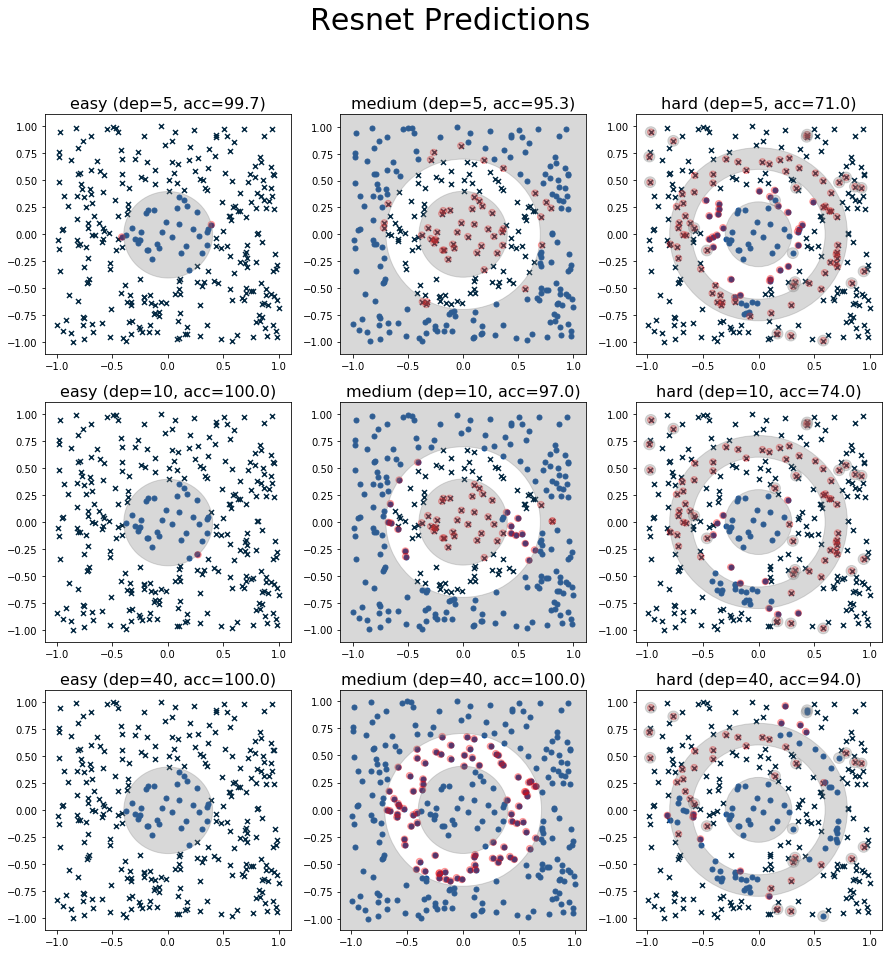
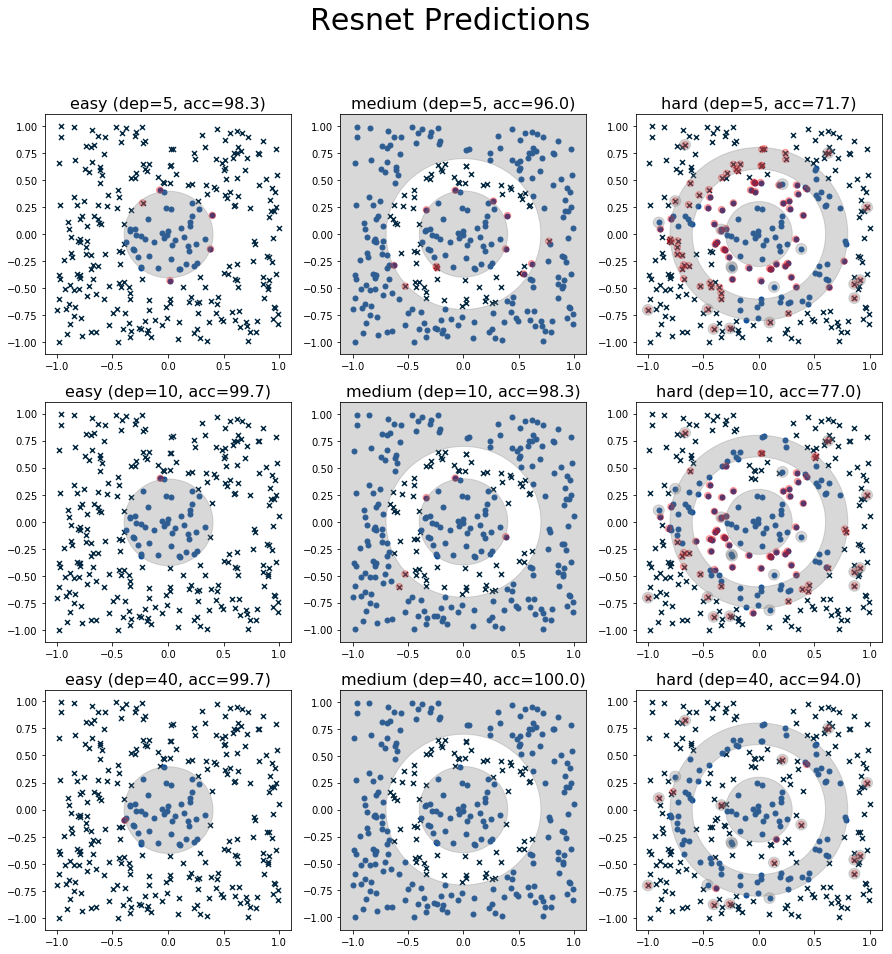
spell check, update images.

diff --git a/source/posts/universal-resnet-the-one-neuron-approximator.rst b/source/posts/universal-resnet-the-one-neuron-approximator.rst
@@ -44,13 +44,15 @@
 
 *"In theory, theory and practice are the same. In practice, they are not."*
 
-This post is going to talk about a paper I read recently called *ResNet with
-one-neuron hidden layers is a Universal Approximator* by Lin and Jegelka [1].
-It talks about a simplified Residual Network as a universal approximator,
+I read a very interesting paper titled *ResNet with one-neuron hidden layers is
+a Universal Approximator* by Lin and Jegelka [1].
+The paper describes a simplified Residual Network as a universal approximator,
 giving some theoretical backing to the wildly successful ResNet architecture.
-Of course, I'm not going to go through the any of the theoretical stuff,
-instead I'm going to introduce the theorems and play around to see if we can
-get close to these theoretical limits.
+In this post, I'm going to talk about this paper and a few of the related
+universal approximation theorems for neural networks. 
+Instead of going through all the theoretical stuff, I'm simply going introduce
+some theorems and play around with some toy datasets to see if we can get close
+to the theoretical limits.
 
 (You might also want to checkout my previous post where I played around with
 ResNets: `Residual Networks <link://slug/residual-networks>`__)
@@ -62,30 +64,31 @@ ResNets: `Residual Networks <link://slug/residual-networks>`__)
 |H3| The OG Universal Approximation Theorem |H3e|
 
 The `Universal Approximation Theorem
-<https://en.wikipedia.org/wiki/Universal_approximation_theorem>`__ is one of
+<https://en.wikipedia.org/wiki/Universal_approximation_theorem>`__ (1989) is one of
 the most well known (and often incorrectly used) theorems when it comes to
 neural networks.  It's probably because neural networks don't have as much
-theoretical depth as other techniques.  I'll paraphrase the theorem here
-(if you're really interested in the math click on the Wikipedia link):
+theoretical depth as other techniques so people feel like they have to give
+some weight to its spectacular empirical results.  I'll paraphrase the theorem
+here (if you're really interested in the math click on the Wikipedia link):
 
     The **universal approximation theorem** states that a feed-forward
     networks with a single hidden layer containing a finite number of neurons
     can approximate functions on compact sets on :math:`\mathbb{R}^n`, under
-    mild assumptions of the activation function (nonconstant,
+    mild assumptions of the activation function (non-constant,
     monotonically-increasing, continuous).
 
-The implications is *theoretically*, we can fit any function just by increasing
-the width of a single hidden layer arbitrarily large. 
+The implications is *theoretically* we can approximate any function just by
+arbitrarily increasing the width of a single hidden layer.
 
 For me, this theorem doesn't strike me as all that insightful (or useful).
 First, in practice we never arbitrarily make the width of a neural network
 really wide, never mind having a single hidden layer.  Second, it seems
 intuitive that this might be the case doesn't it?  If we think about approximating
-a function with an arbitrary number of `piecewise linear functions <https://en.wikipedia.org/wiki/Piecewise_linear_function>`__, then we should be able to approximate
-*most* well-behaved functions (that's basically how derivation works).
+a function with an arbitrary number of `piece-wise linear functions <https://en.wikipedia.org/wiki/Piecewise_linear_function>`__, then we should be able to approximate
+*most* well-behaved functions (that's basically how integration works).
 Similarly, if we have a neuron for each "piece" of the function, we should
 intuitively be able to approximate it to any degree (although I'm sure the
-actual proof is more complicated and elegant).
+actual proof is much more complicated and elegant).
 
 .. figure:: /images/piecewise_linear_approximation.png
   :height: 300px
@@ -93,7 +96,7 @@ actual proof is more complicated and elegant).
   :align: center
 
   Figure 1: If we can approximate functions with an arbitrary number of
-  piecewise lienar functions, why can't we do it with an arbitrary number of
+  piece-wise linear functions, why can't we do it with an arbitrary number of
   hidden units? (source: Wikipedia)
 
 So practically, there isn't much that's interesting about this (basic) version
@@ -109,7 +112,7 @@ theorem for width-bounded neural networks published recently (2017) from [2]:
     ReLU networks can approximate any Lebesgue integrable function on
     n-dimensional space with respect to L1 distance.
 
-    Additionally, except for a negligible set, most functions cannot
+    Additionally, except for a negligible set, most functions *cannot*
     be approximated by a ReLU network of width at most :math:`n`.
 
 So basically if you have just 4 extra neurons in each layer and arbitrary
@@ -128,10 +131,11 @@ proven.  See the references from [1] and [2] if you're interested.
 ResNet is a neural network architecture that contains a "residual connection".
 Basically, it provides a shortcut from layer :math:`i` merging it with addition
 to layer :math:`i+k` for some constant :math:`k`.  In between, you can do all
-kinds of interesting things such as have multiple layers but the important
-thing is that the input width of layer :math:`i` is the same as the output
-width of layer :math:`i+k`.  Figure 2 shows a simplified ResNet architecture
-where the "in between" transformation is a single neuron.
+kinds of interesting things such as have multiple layers, increase or
+bottleneck the width, but the important thing is that the input width of layer
+:math:`i` is the same as the output width of layer :math:`i+k`.  Figure 2 shows
+a simplified ResNet architecture where the "in between" transformation is a
+single neuron.
 
 .. figure:: /images/basic_resnet.png
   :height: 200px
@@ -154,8 +158,8 @@ function, we have our ResNet block :math:`\mathcal{R}_i(x)` and our final networ
     Y(x) &= \mathcal{R}_n({\bf x}) \circ \ldots \circ \mathcal{R}_1({\bf x})
     \tag{1}
 
-where :math:`U` is :math:`d x 1`, :math:`V` is :math:`1xd` matrix, and
-:math:`b` is a constant.
+where :math:`\bf U` is :math:`d \text{x} 1` weight matrix, :math:`\bf V` is
+:math:`1\text{x}d` weight matrix, and :math:`b` is a learnable constant.
 
 Given the above ResNet architecture, the universal approximation theorem from
 [1] states:
@@ -171,104 +175,117 @@ neuron it is powerful enough to represent any function.
 
 |H2| Experiments |H2e|
 
-In this section I played around with a bunch of different network architectures
-to see how they would perform.  You can see my work in this notebook (TODO TODO).
+In this section I play around with a few different network architectures
+relating to the theorems above to see how they would perform.  You can see my
+work in this notebook on
+`GitHub <https://github.com/bjlkeng/sandbox/blob/master/notebooks/universal_resnet/Universal%20Resnet.ipynb>`__.
 
 I generated three toy datasets labelled "easy", "medium", "hard" with two input
 variables :math:`x_1, x_2`, and a single binary label.  Each dataset used the
-same 300 :math:`(x_1, x_2)` input points but had a different predicate of
+same 300 :math:`(x_1, x_2)` input points but had different predicates of
 increasing complexity.  Figure 3 shows the three datasets.
 
 .. figure:: /images/universal_resnet_expr1.png
   :height: 200px
-  :alt: "easy", "medium" and "hard" Datasets
+  :alt: "easy", "medium" and "hard" datasets
   :align: center
 
-  Figure 3: Plot of "easy", "medium" and "hard" Datasets.  The shaded region
-  indicates where the genrating function should be a "1".  The "x"s represent
-  "0"s and the dots represent "1"s.
+  Figure 3: Plot of "easy", "medium" and "hard" datasets.  The shaded region
+  indicates where the generating function should be a "1".  The "x"s represent
+  "0"s and the dots represent "1"s.  Notice the "hard" dataset has a bunch of
+  spurious "1"s that are randomly placed on the grid.
   
 First, let's take a look at the different architectures that I ran.  All the
 experiments use a softmax output layer with a binary crossentropy loss.
 
-    * **Resnet**: Stacking the above ResNet block (figure 2) with a width of 2
-      (same as the input).
-    * **Dense (W=2, W=6)**: Fully connected dense layers with a
-      width of either 2 (size of inputs) or 6 (size of inputs + 4 from the
-      universal theorem above).
-    * **Single Dense with Variable Width**: A single hidden layer but changing
-      the width (OG universal theorem).
+* **Resnet**: Stacking the above ResNet block (figure 2) with a width of 2
+  (same as the input).
+* **Dense (W=2, W=6)**: Fully connected dense layers with a
+  width of either 2 (size of inputs) or 6 (size of inputs + 4 from the
+  universal theorem above) with ReLU activations.
+* **Single Dense with Variable Width**: A single hidden layer but changing
+  the width (OG universal theorem) with ReLU activations.
 
 I varied depths of the first two architectures varied from 5, 10, and 40.  The
 width of the last architecture varies from 5, 10, 40, 100, and 300.
 For each combination, I ran 5 experiments and report the mean and standard
 deviation of accuracy on the training data (no testing set here since we're trying
 to see if it can approximate samples from the underlying function).  Bolded
-results show the best run for each dataset.  The results shown in Table 1 and
-Table 2, while Appendix A shows figures plotting the best run of each
-configuration.
+results show the best run for each dataset.  The overall results are shown in
+Table 1 and Table 2, while Appendix A shows figures plotting the best run of
+each configuration.
 
 *Table 1: ResNet vs. Dense (W=2, 6) with varying depths on Easy, Medium and Hard datasets.*
 
 +-------------+-------------------------------+--------------------------------+--------------------------------+
-|             |              Easy             |             Medium             |              Hard              |
+|             |              Easy             |             Medium             |          Hard                  |
 +-------------+-------------------------------+--------------------------------+--------------------------------+
-|             | D=5    | D=10        | D=40   | D=5    | D=10    | D=40        | D=5        | D=10    | D=40    |
-+-------------+--------+-------------+--------+--------+---------+-------------+------------+---------+---------+
-|    ResNet   | 99 ± 1 | **100 ± 0** | 99 ± 1 | 89 ± 7 | 91 ± 6  | **93 ± 12** | 68 ± 2     | 71 ± 2  | 75 ± 23 |
-+-------------+--------+-------------+--------+--------+---------+-------------+------------+---------+---------+
-| Dense (W=2) | 89 ± 0 | 89 ± 0      | 89 ± 0 | 73 ± 0 | 73 ± 0  | 73 ± 0      | 64 ± 0     | 64 ± 0  | 64 ± 0  |
-+-------------+--------+-------------+--------+--------+---------+-------------+------------+---------+---------+
-| Dense (W=6) | 97 ± 5 | 97 ± 5      | 89 ± 0 | 92 ± 9 | 90 ± 11 | 75 ± 6      | **85 ± 9** | 72 ± 13 | 65 ± 1  |
+|             | D=5    | D=10        | D=40   | D=5        | D=10    | D=40    | D=5    | D=10    | D=40        |
++-------------+--------+-------------+--------+------------+---------+---------+--------+---------+-------------+
+|    ResNet   | 98 ± 1 | **99 ± 0**  | 98 ± 2 | 85 ± 8     | 95 ± 3  | 98 ± 2  | 67 ± 3 | 73 ± 3  | **88 ± 4**  |
++-------------+--------+-------------+--------+------------+---------+---------+--------+---------+-------------+
+| Dense (W=2) | 86 ± 0 | 86 ± 0      | 86 ± 0 | 77 ± 0     | 77 ± 0  | 77 ± 0  | 62 ± 2 | 62 ± 0  | 62 ± 0      |
++-------------+--------+-------------+--------+------------+---------+---------+--------+---------+-------------+
+| Dense (W=6) | 99 ± 0 | 99 ± 1      | 88 ± 6 | **99 ± 1** | 97 ± 6  | 77 ± 0  | 85 ± 5 | 75 ± 8  | 62 ± 0      |
 +-------------+--------+-------------+--------+--------+---------+-------------+------------+---------+---------+
 
 We can see in Table 1 that ResNet has pretty consistent performance.  As we
 increase the depth, it's able to successfully translate the increased capacity
-into accuracy gains.  Notice though at depth 40, the standard deviation is
-huge.  This is probably from the difficulty of fitting a networks so deep.
-Although the fact that we were able to train a network so deep shows the
-uncanny ability of ResNet architectures to train deep networks (as compared to
-the dense ones below).  So the ResNet universal approximation theorem for
-ResNet seems to be holding up somewhat.
+into accuracy gains.  Not only that, it shows the best best performance in the
+easy and hard datasets, while being pretty close on the medium one.
+The fact that we are able to train a network so deep shows the uncanny ability
+of ResNet architectures to train deep networks (as compared to the dense ones
+below).  So the ResNet universal approximation theorem for ResNet seems to be
+holding up somewhat.
 
-A dense network with width=2 is totally incapable of learning anything useful.
-The accuracies reported are actually just the underlying ratio positive to
-negative labels (see figures in Appendix A).  This confirms the negative
-result of the width bounded universal approximation theorem.
+For the dense networks with width=2, it is totally incapable of learning
+anything useful.  The accuracies reported are actually just the underlying
+ratio of positive to negative labels (see figures in Appendix A).  This
+confirms the negative result of the width bounded universal approximation
+theorem.
 
 At width=6, the dense network shows more mixed results.  It performs quite well
-at depths 5 and 10, even producing the best result on the hard dataset at
-depth=5. However, it totally breaks down at depth 40.  This is most likely due
+at depths 5 and 10, even producing the best result on the medium dataset at
+depth=5.  However, it totally breaks down at depth 40.  This is most likely due
 to the difficulty of fitting really deep networks.  An important lesson:
-theoretical results don't always translate into practical ones.
+theoretical results don't always translate into practical ones.  
+(We probably could have helped this along by adding some normalization to fit
+the deep networks.  I did add do one trial with batch normalization but the
+results didn't change much.)
 
 
 *Table 2: Dense with a single hidden layer and varying width on Easy, Medium and Hard datasets.*
 
-+--------+--------+---------+---------+---------+-------------+
-| Width  | 5      | 10      | 40      | 100     | 300         |
-+--------+--------+---------+---------+---------+-------------+
-| Easy   | 99 ± 1 | 100 ± 0 | 100 ± 0 | 100 ± 0 | **100 ± 0** |
-+--------+--------+---------+---------+---------+-------------+
-| Medium | 79 ± 2 | 85 ± 5  | 97 ± 1  | 97 ± 1  | **97 ± 1**  |
-+--------+--------+---------+---------+---------+-------------+
-| Hard   | 70 ± 1 | 70 ± 3  | 74 ± 2  | 80 ± 2  | **81 ± 3**  |
-+--------+--------+---------+---------+---------+-------------+
++--------+--------+---------+---------+-------------+-------------+
+| Width  | 5      | 10      | 40      | 100         | 300         |
++--------+--------+---------+---------+-------------+-------------+
+| Easy   | 99 ± 1 | 100 ± 0 | 100 ± 0 | **100 ± 0** | 99 ± 0      |
++--------+--------+---------+---------+-------------+-------------+
+| Medium | 79 ± 2 | 86 ± 8  | 97 ± 3  | **99 ± 1**  | 97 ± 2      |
++--------+--------+---------+---------+-------------+-------------+
+| Hard   | 66 ± 2 | 68 ± 4  | 77 ± 3  | **81 ± 1**  | 78 ± 1      |
++--------+--------+---------+---------+------------+--------------+
 
-Taking a look at similar type results with a single hidden layer architecture
+Taking a look at similar results with a single hidden layer architecture
 in Table 2, we see that the original universal approximation theorem shows more
-consistent results.  Each increase in width is better than the previous, and it
-very wide widths (300), it performs better than the above architectures
-except on the hard where it performs similarly with a tighter range.
+consistent results.  Each increase in width is better than the previous except
+at the W=300 where it performs pretty close to the width below it.  It performs
+on-par with the above architectures except on the hard where it performs
+slightly worse.  However, we can see the results across the board are much more
+consistent (smaller standard deviation).  This indicates that the single hidden
+layer is also the easier to fit (no vanishing gradients).  However, it's also
+been shown to be very inefficient -- you might need a non-linear (exponential?)
+number of units before you can approximate something.  It turns out that these
+datasets aren't that hard 100 or so units will do.
 
 
 |H2| Conclusion |H2e|
 
 Definitely a shorter post than my previous few.  Although like many theoretical
-results, it's not practically very useful but I thought this result was so
-interesting because of the strong empirical evidence in favor of ResNet
+results these ones are too practical, but I thought this result was so
+interesting because of the strong empirical evidence in favour of ResNet
 architectures.  Many results in deep learning don't have great theoretical
-foundations, so it's so nice to see one for one of the big idea in this area.
+foundations, so it's so nice to see a result for one of big idea in this area.
 My next post will likely be a shorter one too with another cute idea that I've
 read about recently.  Stay tuned!
 
@@ -282,12 +299,18 @@ read about recently.  Stay tuned!
 
 |H2| Appendix A: Figures for Experiments |H2e|
 
+The figures below show the *best* run out of the five runs for each of the
+given experiments.  So the accuracies are at the top of the range
+and do not match the averages in Table 1 and 2.
+
 .. figure:: /images/universal_resnet_expr2.png
   :height: 600px
   :alt: Plots of Predictions (ResNet)
   :align: center
 
   Figure 3: Plot of predictions from the ResNet architecture.
+
+|br|
 
 .. figure:: /images/universal_resnet_expr3.png
   :height: 600px
@@ -296,6 +319,8 @@ read about recently.  Stay tuned!
 
   Figure 4: Plot of predictions from the Dense (W=2) architecture.
 
+|br|
+
 .. figure:: /images/universal_resnet_expr4.png
   :height: 600px
   :alt: Plots of Predictions (Dense)
@@ -303,13 +328,16 @@ read about recently.  Stay tuned!
 
   Figure 5: Plot of predictions from the Dense (W=6) architecture.
 
+|br|
+
 .. figure:: /images/universal_resnet_expr7.png
-  :height: 600px
+  :height: 1200px
   :alt: Plots of Predictions (Dense)
   :align: center
 
   Figure 6: Plot of predictions from the Single Dense architecture.
 
+|br|
 
 
 
